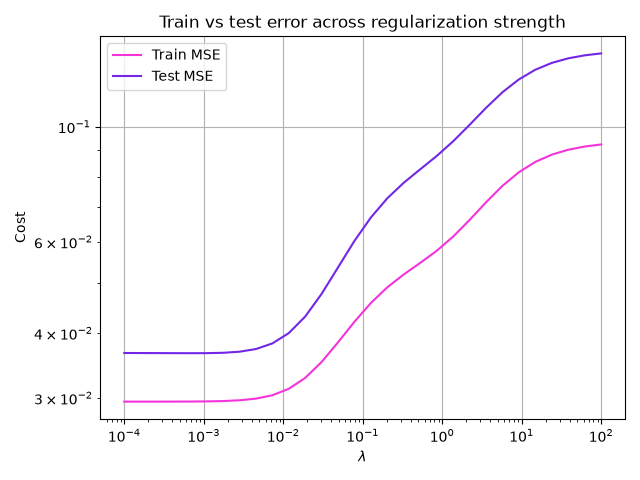
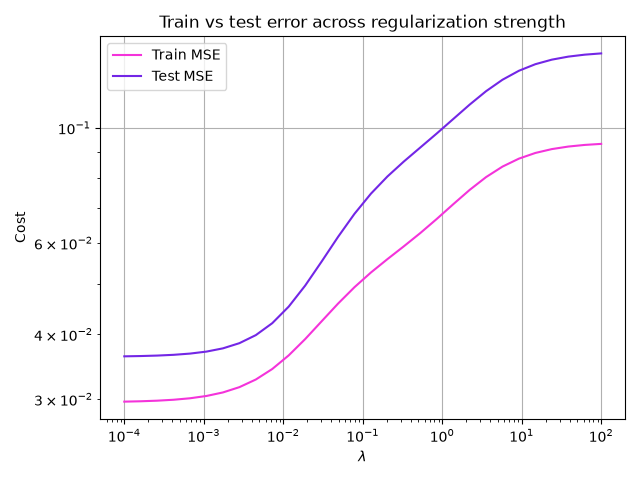
more figure

diff --git a/Project_1/Code/_Part_e.py b/Project_1/Code/_Part_e.py
@@ -46,11 +46,11 @@ print(f'Ridge:  |AD - analytical| = {np.max(np.abs(gradient_Ridge_jax - gradient
 
 """Gradient descent for OLS and Ridge"""
 #the largest safe learning rate for plain gradient descent: gamma < 2 / lambda_max(hessian)
-H_OLS = 2.0 / len(y) * X.T @ X
-H_Ridge = 2.0 / len(y) * X.T @ X + 2 * lam * np.eye(X.shape[1])
+H_OLS = hessian_eigs(X)
+H_Ridge = hessian_eigs(X, lmbda= lam)
 
-gamma_max_OLS = 2.0 / np.linalg.eigvalsh(H_OLS).max()
-gamma_max_Ridge = 2.0 / np.linalg.eigvalsh(H_Ridge).max()
+gamma_max_OLS = 2.0 / H_OLS.max()
+gamma_max_Ridge = 2.0 / H_Ridge.max()
 
 history_OLS, n_OLS = gradient_descent(X, y, gamma_max_OLS)
 history_Ridge, n_Ridge = gradient_descent(X, y, gamma_max_Ridge, lam)
@@ -220,7 +220,7 @@ plt.show()
 
 print("Test-set evaluation-------------------------------")
 print(f"OLS:   train={cost_train_OLS:.4e}, test={cost_test_OLS:.4e}, gap={cost_test_OLS - cost_train_OLS:.4e}")
-print(f"Ridge: train={cost_train_Ridge:.4e}, test={cost_test_Ridge:.4e}, gap={cost_test_Ridge - cost_test_Ridge:.4e}")
+print(f"Ridge: train={cost_train_Ridge:.4e}, test={cost_test_Ridge:.4e}, gap={cost_test_Ridge - cost_train_Ridge:.4e}")
 
 
 """For different lambda values, comparing test and train"""
@@ -228,9 +228,13 @@ lambdas = np.logspace(-4, 2, 30)
 train_errs, test_errs = [], []
 
 for lm in lambdas:
-    theta_lm = closed_form(X, y, lmbda=lm)
-    train_errs.append(cost(theta_lm, X, y))
-    test_errs.append(cost(theta_lm, X_test, y_test))
+    H_Ridge_lm = hessian_eigs(X, lmbda= lm)
+    gamma_max_Ridge_lm = 2.0 / H_Ridge_lm.max()
+
+    history_Ridge, n_Ridge = gradient_descent(X, y, gamma_max_Ridge_lm, lm)
+    theta_lm = history_Ridge[-1]
+    train_errs.append(cost(theta_lm, X, y, lmbda=lm))
+    test_errs.append(cost(theta_lm, X_test, y_test, lmbda=lm))
 
 plt.plot(lambdas, train_errs, label="Train MSE", color = "#F433DA")
 plt.plot(lambdas, test_errs, label="Test MSE", color = "#7326E6")

diff --git a/Project_1/Code/gradient_descent_methods.py b/Project_1/Code/gradient_descent_methods.py
@@ -18,8 +18,8 @@ def closed_form(X, y, lmbda=0.0):
 
         Returns:
         theta (NDArray, shape: (p, )): theta values
-
     """
+
     n, p = X.shape
     return np.linalg.solve(X.T @ X + n * lmbda * np.eye(p), X.T @ y)
 
@@ -55,6 +55,21 @@ def cost(theta, X, y, lmbda=0.0, penalty = "L2"):
         reg = 0.0
 
     return mse + reg
+
+def hessian_eigs(X, lmbda=0.0):
+    """
+    Eigenvalues of the Hessian (2/n) X^T X + 2 lambda I, Eqs. (4.14) and (4.17).
+
+        Params:
+        X (NDArray, shape: (n, p)): Design matrix X
+        lmbda (float): penalty lambda, set to 0.0 for OLS, choose a different value for Ridge or Lasso
+
+        Returns:
+        eig (NDArray, shape: (p, )): eigen values
+    """
+    n = len(X)
+    return np.linalg.eigvalsh((2.0 / n) * X.T @ X + 2.0 * lmbda * np.eye(X.shape[1]))
+
 
 def cost_history(history, X, y, lmbda=0.0, penalty="L2"):
     """
